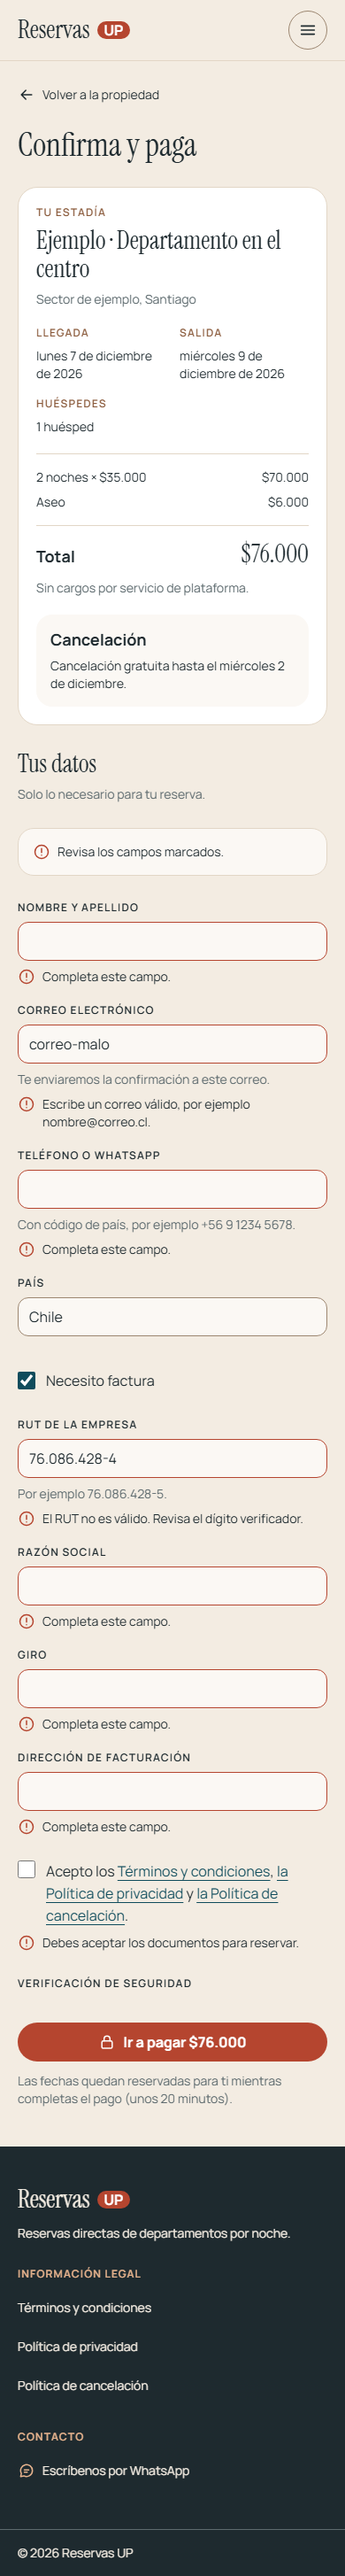
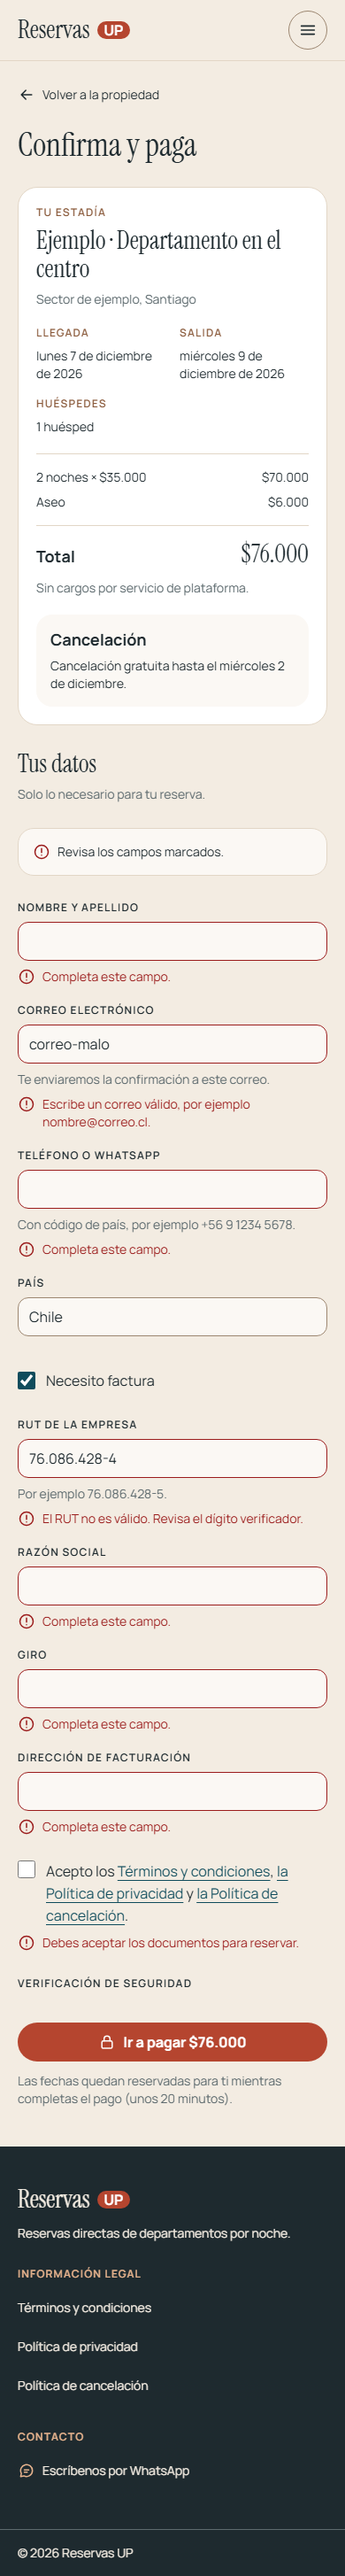
Sesión 9 (parte 2): producción verificada, token danger, estado y bitácora
- Token "danger" (#9B1C1C, 6,9:1 sobre sand-100) para errores de formulario,
  con ícono y texto; terracotta queda solo para la acción principal.
- Producción: migraciones aplicadas, 265 casos SQL OK sin datos residuales,
  create-booking y payment-webhook desplegadas (mock-gateway no), modo
  WhatsApp y create-booking → 503 payments_unavailable.
- docs/checkout.md, ESTADO-PROYECTO.md y BITACORA.md.

diff --git a/src/components/checkout/BookingForm.tsx b/src/components/checkout/BookingForm.tsx
@@ -133,7 +133,7 @@ export function BookingForm({ slug, stay, total, whatsapp, onPriceChanged }: Pro
 
       {Object.keys(errors).length > 0 && (
         <p role="alert" className="flex items-start gap-2 rounded-l border border-line bg-sand-50 p-4 text-body-s text-ink">
-          <AlertIcon size={20} className="shrink-0 text-terracotta" />
+          <AlertIcon size={20} className="shrink-0 text-danger" />
           {t.checkout.errorSummary}
         </p>
       )}
@@ -196,7 +196,7 @@ export function BookingForm({ slug, stay, total, whatsapp, onPriceChanged }: Pro
       {notice && (
         <div ref={noticeRef} tabIndex={-1} role="alert" className="flex flex-col gap-3 rounded-l border border-line bg-sand-50 p-4 focus:outline-none">
           <p className="flex items-start gap-2 text-body text-ink">
-            <AlertIcon size={20} className="mt-1 shrink-0 text-terracotta" />
+            <AlertIcon size={20} className="mt-1 shrink-0 text-danger" />
             {notice.text}
           </p>
           {notice.whatsapp && whatsapp && (

diff --git a/src/components/checkout/Field.tsx b/src/components/checkout/Field.tsx
@@ -26,7 +26,7 @@ export function Field({ id, label, hint, error, className, ...input }: Props) {
         id={id}
         aria-invalid={error ? true : undefined}
         aria-describedby={[errorId, hintId].filter(Boolean).join(' ') || undefined}
-        className={`${fieldClass} ${error ? 'border-terracotta' : 'border-border-control'}`}
+        className={`${fieldClass} ${error ? 'border-danger' : 'border-border-control'}`}
         {...input}
       />
       {hint && (
@@ -42,8 +42,8 @@ export function Field({ id, label, hint, error, className, ...input }: Props) {
 export function FieldError({ id, message }: { id?: string; message?: string | null }) {
   if (!message) return null
   return (
-    <p id={id} className="flex items-start gap-2 text-body-s text-ink">
-      <AlertIcon size={20} className="shrink-0 text-terracotta" />
+    <p id={id} className="flex items-start gap-2 text-body-s text-danger">
+      <AlertIcon size={20} className="shrink-0 text-danger" />
       {message}
     </p>
   )

diff --git a/src/index.css b/src/index.css
@@ -23,6 +23,7 @@
   --color-terracotta: #b5452f;
   --color-dawn: #e9b58f;
   --color-unavailable: #e8ded0;
+  --color-danger: #9b1c1c;
 
   /* ─── Tipografía ────────────────────────────────────────────────────── */
   --font-*: initial;

diff --git a/ESTADO-PROYECTO.md b/ESTADO-PROYECTO.md
@@ -1,6 +1,6 @@
 # Estado del proyecto
 
-Última actualización: 2026-10-07 (Sesión 8).
+Última actualización: 2026-10-08 (Sesión 9).
 
 Sitio: https://reservas-up.pages.dev · Repositorio: `misdientes/reservas-up` (privado) · Supabase: `ygsckeyfewlcitrwbywf`.
 
@@ -16,7 +16,8 @@ Sitio: https://reservas-up.pages.dev · Repositorio: `misdientes/reservas-up` (p
 | 6 | Detalle y calendario | ✅ Ficha con galería y visor, calendario accesible con teclado (reglas en `docs/calendario.md`), URL sincronizada, disponibilidad fresca antes de WhatsApp, 404 para borradores. `npm test` 46/46. Lighthouse ficha (fixtures) celular 92/100/100/100, escritorio 100/100/100/100 |
 | 7 | Motor de precios | ✅ Motor único en la base (`pricing_core` → `quote_stay`, "desde" en `public_properties`, `internal_tax_breakdown` solo admin). Público sin "IVA"; Santiago cotizable. SQL `pricing` 58/58. Lighthouse ficha 91/100/100/100 y 100/100/100/100 |
 | 8 | Sincronización iCal | ✅ Definición única de ocupación; importación cada 10 min (pg_cron → pg_net → Edge Function con secreto) con "fuente caída no libera" y confirmación doble; choques reserva/hold/cubierto; exportación sin bucles ni datos personales; `sync_health`. Prueba real con Google Calendar: bloqueó y liberó. SQL `ical_sync` 37/37 y `occupancy_consistency` 7/7 |
-| 9–17 | — | Pendientes |
+| 9 | Checkout y hold | ✅ `/reservar/:slug` (resumen sin impuestos, cancelación con fecha concreta, datos mínimos, factura opcional con RUT validado, aceptación versionada, Turnstile, "Ir a pagar $X"), `create-booking` en el orden obligatorio, hold de 20 min, `confirm_payment` idempotente (aprobación tardía, monto alterado, duplicado), `/reserva/:code`, borradores legales. Proveedor `mock` solo local (doble candado). Producción en modo WhatsApp: `create-booking` → "pagos no disponibles". SQL `checkout` 43/43 (local y producción), integración HTTP 20/20 con concurrencia real. Lighthouse `/reservar` 91/100/100/100. Detalle en `docs/checkout.md` |
+| 10–17 | — | Pendientes |
 
 ## Bloqueos y pendientes abiertos
 
@@ -29,7 +30,10 @@ Sitio: https://reservas-up.pages.dev · Repositorio: `misdientes/reservas-up` (p
 | Rebaja del avalúo: hoy "precio fijo" provisorio; confirmar con el contador (preguntas en `docs/precios.md`) | Contador | Boletas (desglose interno) |
 | Temporadas (el motor ya las soporta) | René | Precios de temporada |
 | URLs iCal de Airbnb y Booking de cada propiedad, y pegar nuestra URL de exportación en cada canal (pasos en `docs/ical.md`) | René | Sincronización real con los canales |
-| Botón "Reservar" con pago en la barra de la ficha (modo `book` preparado) | — | Sesión 9 |
+| Widget de Cloudflare Turnstile: clave pública en Cloudflare Pages (`VITE_TURNSTILE_SITE_KEY`) y secreta con `npx supabase secrets set TURNSTILE_SECRET_KEY=…` (Pausa B) | René | Activar el modo `online` |
+| Proveedor de pago real y sus claves (`PAYMENT_PROVIDER`) | René + Sesión 10 | Activar el modo `online` |
+| Revisar con abogado los borradores legales (Términos con la cláusula de retracto, Privacidad según la Ley 21.719, Cancelación) y completar los [COMPLETAR] (RUT, domicilio, email, tribunales) | René + abogado | Lanzamiento |
+| Accesibilidad: el enlace del logo tiene un `aria-label` que no coincide con el texto visible (Lighthouse `label-content-name-mismatch`) | — | Sesión 16 |
 | Foto de hero editable desde `app_settings` (`docs/fotos.md`) | — | Cuando haya fotos |
 | Tamaño del JavaScript (~580 kB, sobre todo la librería de Supabase) | — | Optimización futura |
 
@@ -40,6 +44,11 @@ Sitio: https://reservas-up.pages.dev · Repositorio: `misdientes/reservas-up` (p
 | `site_name` | Nombre del sitio |
 | `whatsapp_number` | Número del enlace de WhatsApp (solo dígitos con código de país) |
 | `whatsapp_message` | Mensaje con que se abre la conversación |
+| `booking_mode` | `whatsapp` (consultar; producción hoy) u `online` (reservar y pagar). Ver `docs/checkout.md` |
+| `cancellation_free_days` | Días antes de la llegada con reembolso (5) |
+| `cancellation_refund_percent` | Porcentaje de reembolso hasta ese día (100) |
+
+Privada: `hold_minutes` (20), duración del hold mientras se paga.
 
 ## Cómo verificar
 
@@ -51,10 +60,12 @@ npx supabase db query --linked -f supabase/tests/role_permissions.sql      # 98 
 npx supabase db query --linked -f supabase/tests/pricing.sql               # 58 casos
 npx supabase db query --linked -f supabase/tests/ical_sync.sql             # 37 casos
 npx supabase db query --linked -f supabase/tests/occupancy_consistency.sql # 7 casos
-npm test                                                           # 95 pruebas (fechas, calendario, precios, iCal)
+npx supabase db query --linked -f supabase/tests/checkout.sql              # 43 casos
+npm test                                                           # 125 pruebas (fechas, calendario, precios, iCal, RUT, checkout)
+# Checkout local con Docker (docs/checkout.md): npx supabase start · functions serve · npm run dev:localdb · npm run test:checkout
 npm run build:fixtures && npm run preview:fixtures                  # build local con datos de ejemplo
 npx supabase migration list                                        # local = remoto
 node scripts/capture.mjs <url> <ancho> <salida.png>                # captura + errores de consola
 ```
 
-Documentación: [CLAUDE.md](CLAUDE.md) · [docs/modelo-datos.md](docs/modelo-datos.md) · [docs/datos-reales.md](docs/datos-reales.md) · [docs/fotos.md](docs/fotos.md) · [docs/calendario.md](docs/calendario.md) · [docs/precios.md](docs/precios.md) · [docs/ical.md](docs/ical.md) · [docs/diseno/](docs/diseno/) · [docs/capturas/](docs/capturas/) · [BITACORA.md](BITACORA.md).
+Documentación: [CLAUDE.md](CLAUDE.md) · [docs/modelo-datos.md](docs/modelo-datos.md) · [docs/datos-reales.md](docs/datos-reales.md) · [docs/fotos.md](docs/fotos.md) · [docs/calendario.md](docs/calendario.md) · [docs/precios.md](docs/precios.md) · [docs/ical.md](docs/ical.md) · [docs/checkout.md](docs/checkout.md) · [docs/diseno/](docs/diseno/) · [docs/capturas/](docs/capturas/) · [BITACORA.md](BITACORA.md).

diff --git a/BITACORA.md b/BITACORA.md
@@ -11,3 +11,4 @@ Una línea por sesión: fecha · sesión · qué quedó hecho · pendientes.
 - 2026-10-07 · Sesión 6 (Detalle y calendario) · Ficha `/propiedades/:slug` (volver con filtros, compartir, galería + visor `<dialog>`, datos sin nulos, llegada autónoma, amenidades, precio pendiente, ubicación sin dirección, antes de reservar, barra sticky "Consultar por WhatsApp" con modo `book` preparado); fechas "solo día" y reglas del calendario puras ([llegada, salida), anticipación con hora de check-in, ventana 548 días = función SQL, mínimo de noches, URL validada); disponibilidad fresca en `visibilitychange` y antes de WhatsApp; vitest 46/46 (DST de Chile y varias TZ, 2 mutaciones detectadas); migración `min_advance_hours` en vista pública (SQL 22/22 + 94/94); fixtures ausentes de producción (se detectó y corrigió que un `import()` condicionado por una constante importada sí entraba al build); teclado verificado con eventos reales; Lighthouse ficha 92/100/100/100 y 100/100/100/100; borrador iquique-1 → 404 en producción · Pendiente: precios (Sesión 7).
 - 2026-10-07 · Sesión 7 (Motor de precios) · Tokens `shadow-float` y breakpoint `compact` (tokens.json/guía/CSS); motor único en SQL: `night_price` (temporada > fin de semana > base, por fecha), `pricing_core` (motivos invalid_dates → advance (misma regla que el frontend, al minuto) → max_guests → no_rate → min_nights (mayor entre propiedad y temporada de llegada) → unavailable; `p_exclude_reservation_id` para el checkout), `quote_stay` pública solo con precios finales, `internal_tax_breakdown` solo admin (pending/exempt/ok, rebaja "precio fijo" provisoria), `vat_extract` (neto+IVA=total), "desde" en `public_properties`; decisiones de René: sin "IVA" en público y Santiago cotizable; las pruebas detectaron que `NULL is distinct from NULL` ignoraba bloqueos manuales/iCal (corregido + regresión); SQL 58/58 + 22/22 + 98/98, vitest 61/61; Lighthouse ficha 91/100/100/100 y 100/100/100/100; docs/precios.md con ejemplo para el contador.
 - 2026-10-07 · Sesión 8 (Sincronización iCal) · Definición única de noche ocupada (`active_occupancies`/`occupied_ranges`) usada por calendario, motor, choques y exportación (equivalencia noche a noche 7/7); `apply_ical_import` con "fuente caída/archivo inválido no modifica nada" y confirmación doble antes de liberar (mutaciones detectadas por las pruebas); choques tipificados reserva/hold/cubierto; Edge Functions `ical-import` (secreto compartido en secrets + Vault, `syncProperty`) e `ical-export` (token, sin bucles, sin holds ni datos personales), desplegadas sin Docker; jobs `ical-import` (10 min, ejecuciones `succeeded`) y `cron-history-cleanup` (diario); `sync_health`; SQL 37+7+58+22+98 y vitest 95/95; prueba real con Google Calendar: evento 8–9 oct bloqueó, al borrarlo quedó marcado y luego `released` en la 2.ª sincronización; calendario de prueba desactivado · Pendiente: URLs reales de Airbnb/Booking (René); checkout (Sesión 9) no cobra holds con choque abierto.
+- 2026-10-08 · Sesión 9 (Checkout y hold) · Entorno local con Docker (WSL2) y seed de ejemplo; migraciones `checkout` (booking_mode, cancelación configurable, hold_minutes, huésped único por email con copia de contacto en la reserva, `create_booking_hold` con sync_stale/hold_limit/price_changed/exclusión, `assert_hold_chargeable`, `confirm_payment` idempotente con aprobación tardía, monto alterado y duplicado, `payment_incidents`, `public_booking_status`, candado `payments_guard_mock`) y `legal_drafts` (BORRADOR con cláusula de retracto para el abogado); Edge Functions `create-booking` y `payment-webhook` desplegadas (`mock-gateway` solo local) e `IP_HASH_SECRET`; frontend `/reservar/:slug`, `/reserva/:code`, páginas legales con contenido, pasarela de prueba fuera del build de producción, token `danger` para errores; SQL 43+22+98+58+37+7 en producción sin datos residuales, integración HTTP 20/20 (2 solicitudes simultáneas → 1 hold), vitest 125/125; demo local 390px confirmada; Lighthouse `/reservar` 91/100/100/100; producción en modo WhatsApp y `create-booking` → 503 payments_unavailable · Pendiente: Turnstile (Pausa B), proveedor real (Sesión 10), revisión legal, aria del logo (Sesión 16).

diff --git a/docs/diseno/guia-diseno.md b/docs/diseno/guia-diseno.md
@@ -23,6 +23,7 @@ Sistema de diseño del sitio de reservas directas Reservas UP: departamentos en 
 - dawn solo sobre pacific o ink.
 - Bordes de controles border-control (3:1). line es solo decorativa.
 - Calendario: días no disponibles en unavailable Y tachados; el color nunca es la única señal.
+- Errores de formulario: borde del campo y texto/ícono del mensaje en danger, con ícono de alerta y texto explicativo (el color nunca es la única señal). terracotta queda solo para la acción principal.
 
 ## Tipografía
 - Instrument Serif (display) para títulos: hero display-l en celular y display-xl en escritorio; secciones heading / heading-s. Itálica en terracotta para la palabra destacada ("frente al Pacífico.").
